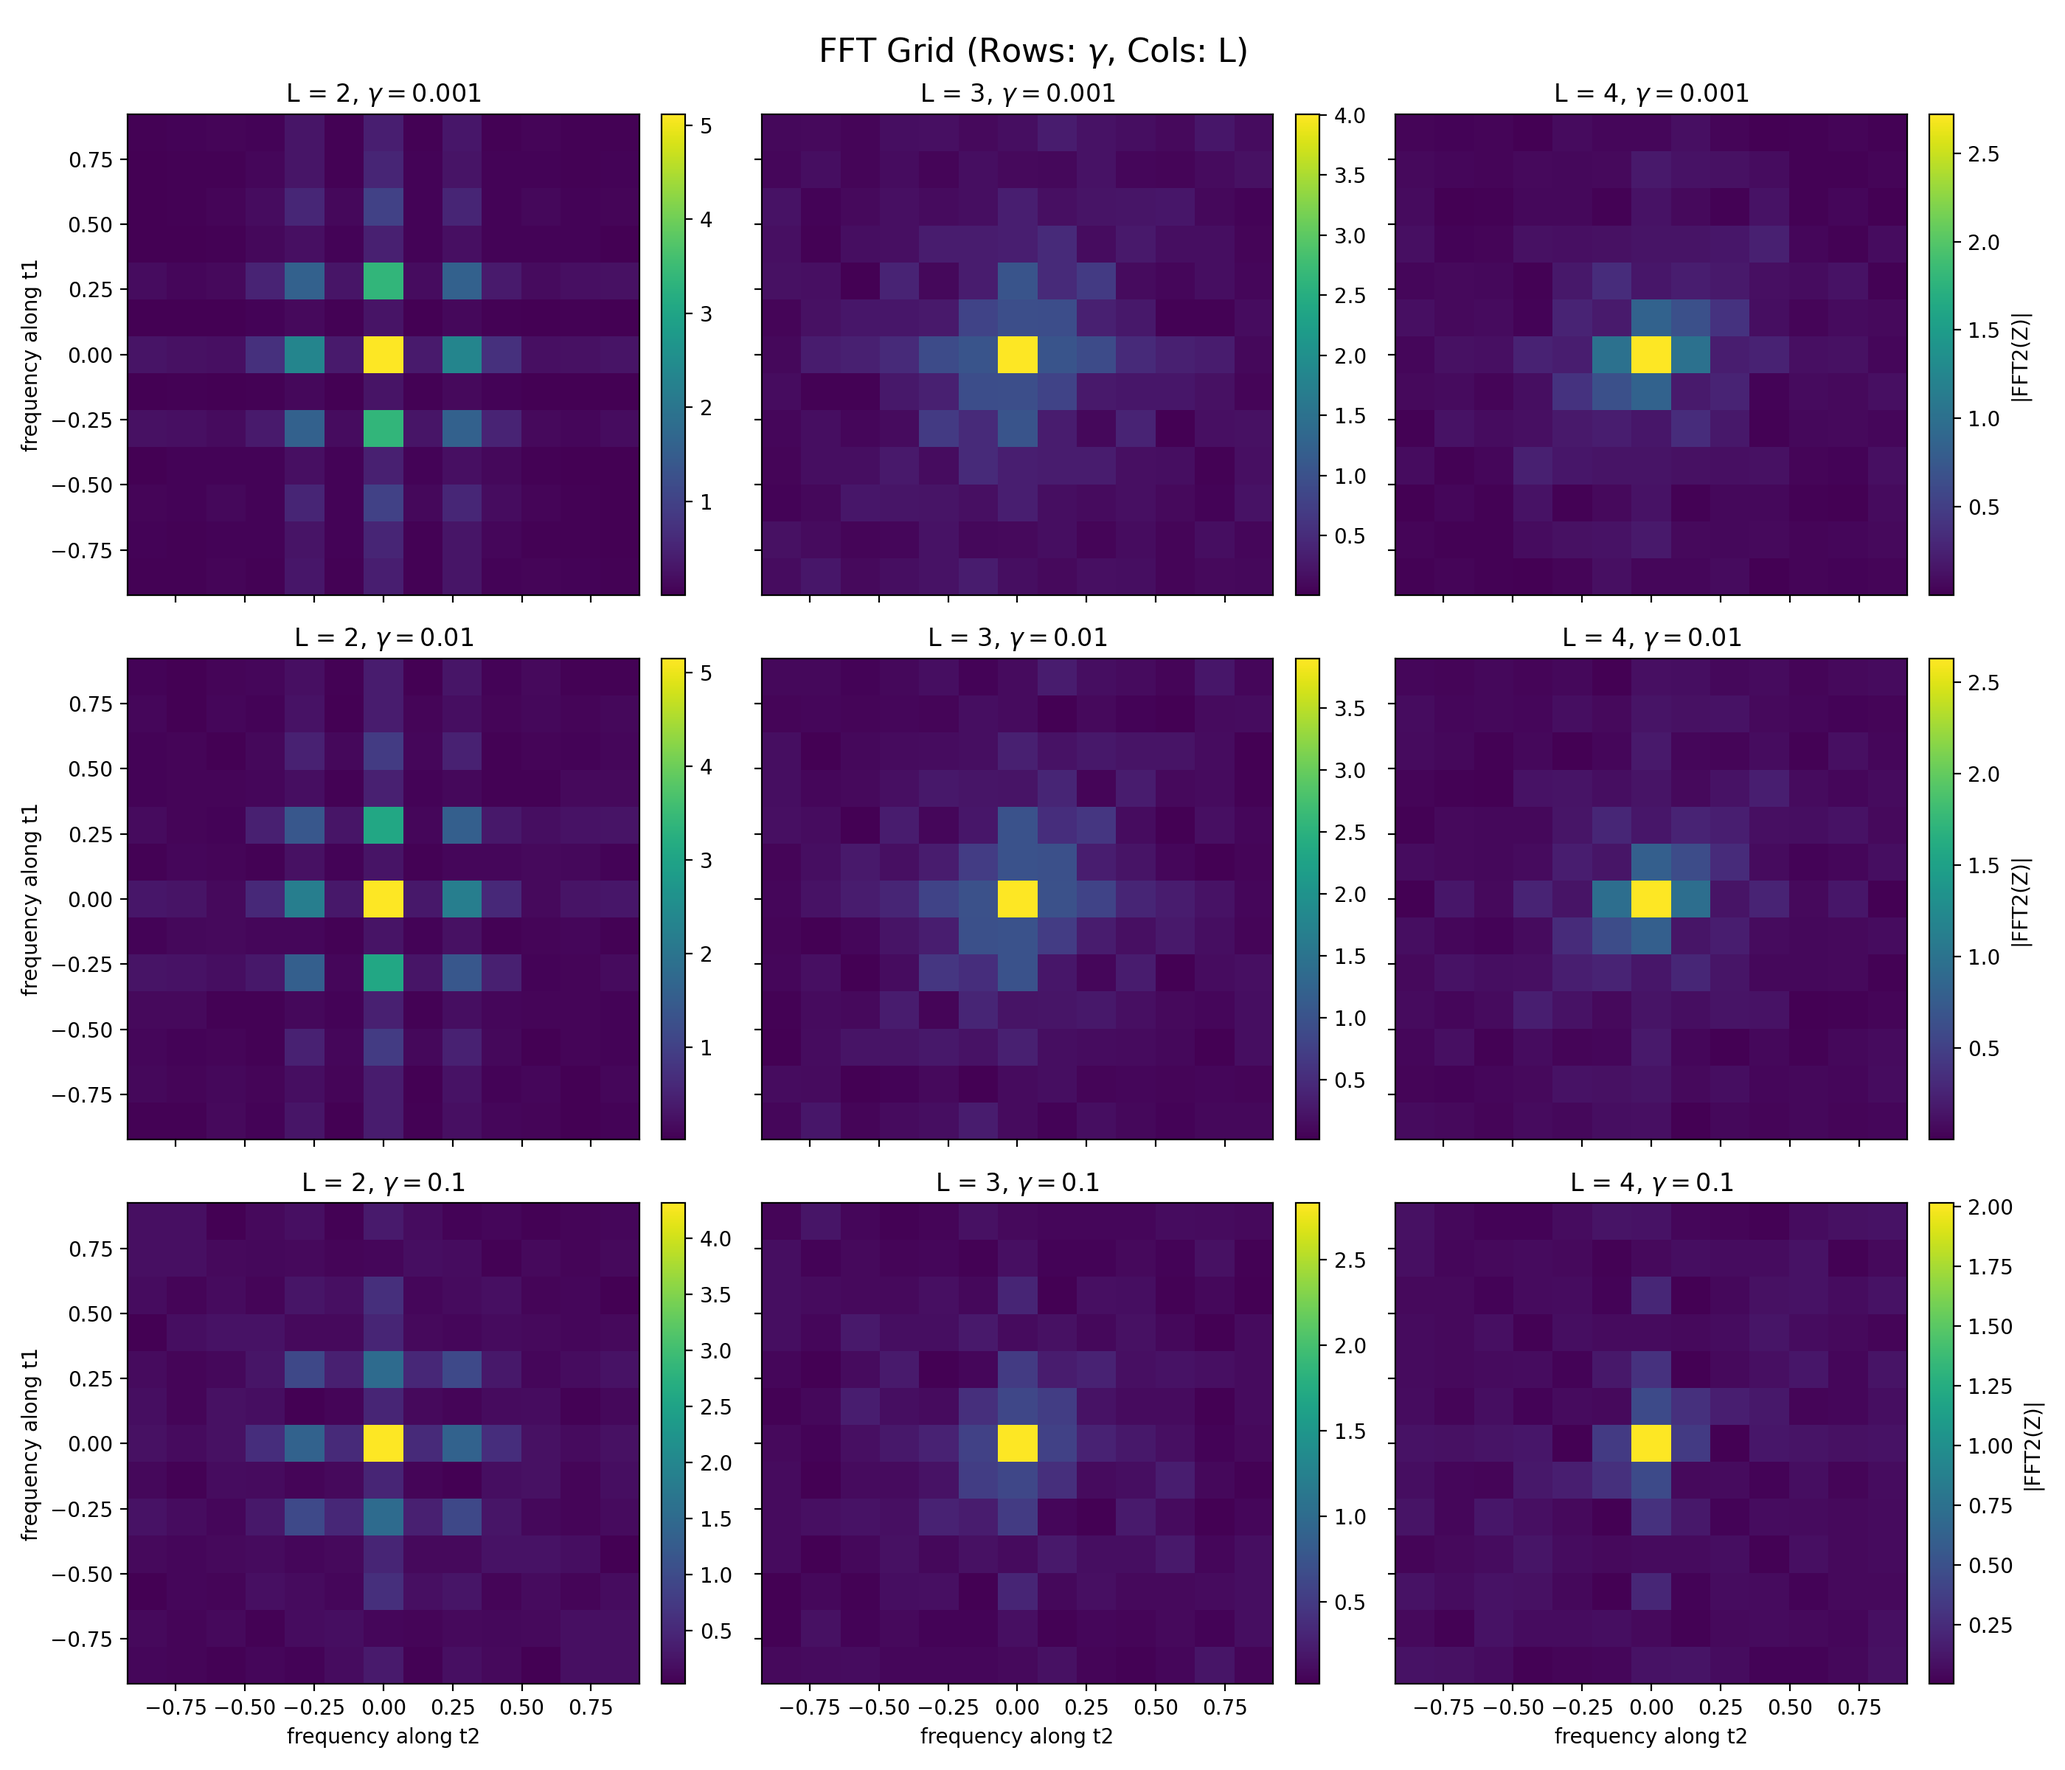
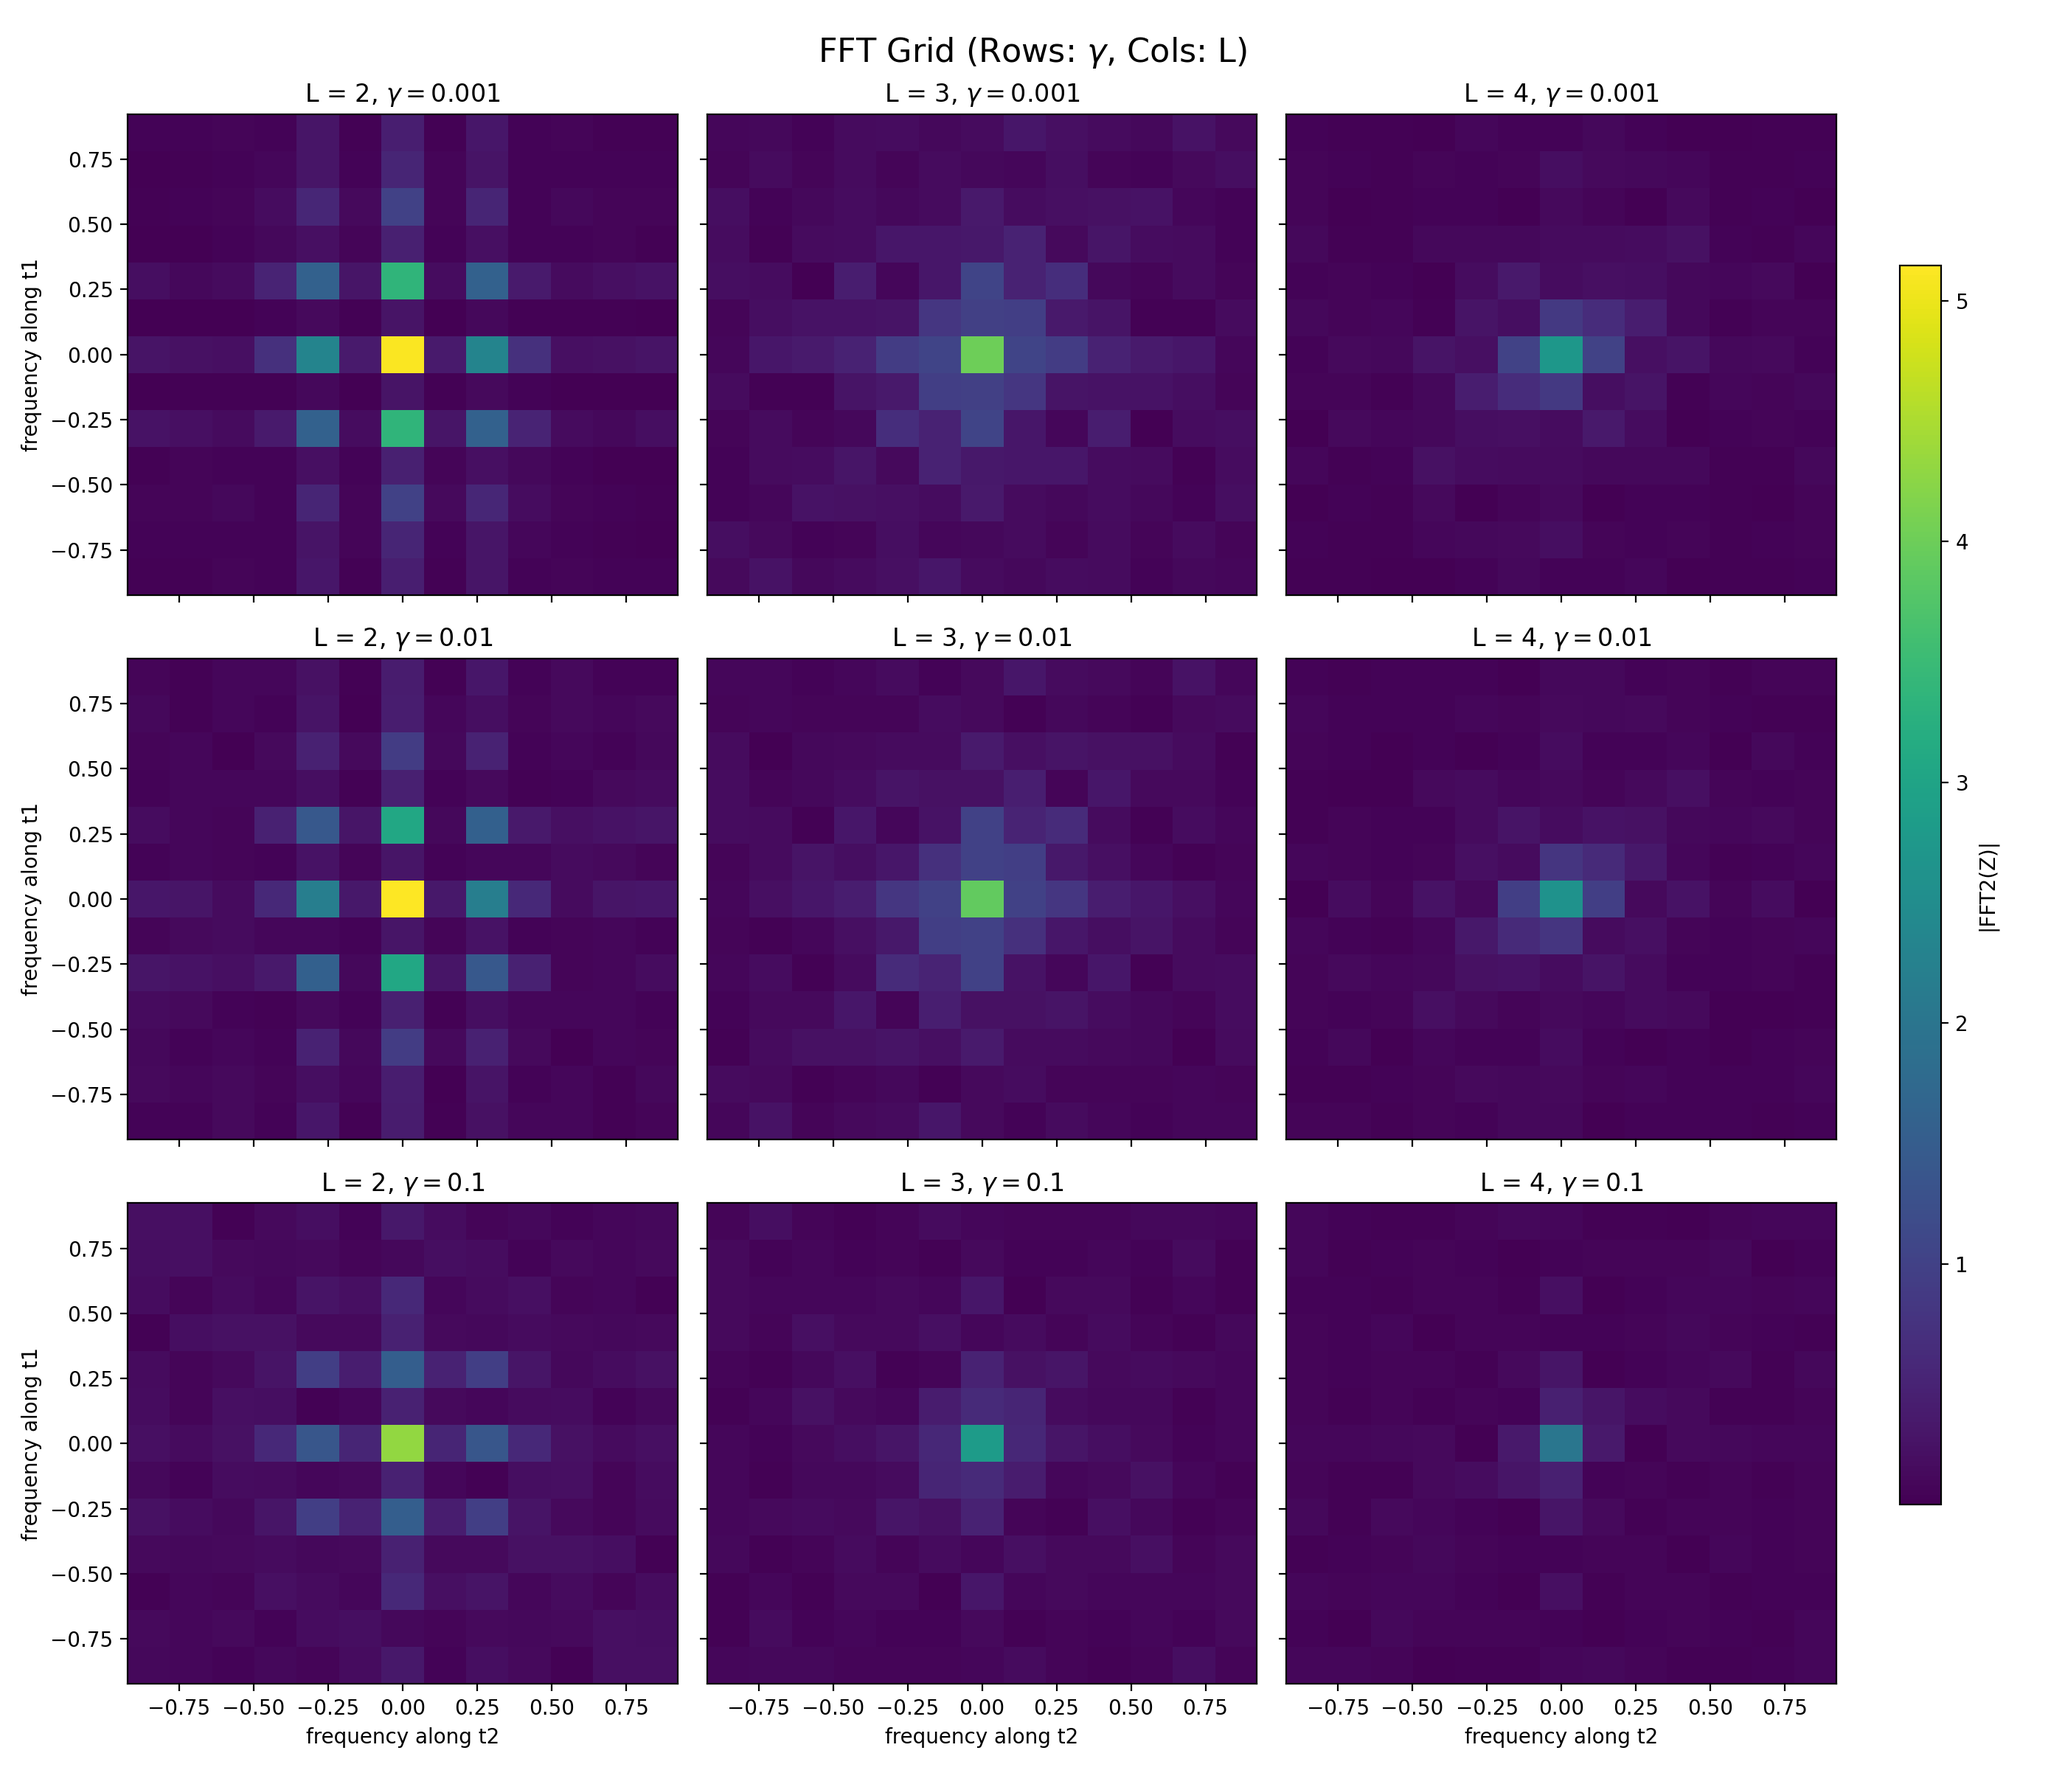
data upload

diff --git a/experiments/heatmap_multi.py b/experiments/heatmap_multi.py
@@ -126,41 +126,66 @@ def main() -> None:
     for plot_type in plot_types:
         fig, axes = plt.subplots(len(gammas), len(system_sizes), figsize=(14, 12), sharex=True, sharey=True)
         
-        for i, gamma in enumerate(gammas):
-            for j, L in enumerate(system_sizes):
-                ax = axes[i, j]
+        # Calculate global min and max for normalization
+        plot_data_dict = {}
+        global_min = np.inf
+        global_max = -np.inf
+        
+        for gamma in gammas:
+            for L in system_sizes:
                 t1_grid, t2_grid, chi_map = results[(gamma, L)]
                 
-                n1 = len(t1_grid)
-                n2 = len(t2_grid)
-                
                 if plot_type == "contours":
-                    X, Y = np.meshgrid(t2_grid, t1_grid)
-                    im = ax.contourf(X, Y, chi_map, levels=40)
+                    plot_data = chi_map
                     cbar_label = "Conditional Holevo Information"
-                    
                 elif plot_type == "fft" or plot_type == "fft_log":
-                    dt1 = float(t1_grid[1] - t1_grid[0])
-                    dt2 = float(t2_grid[1] - t2_grid[0])
-                    
                     F = np.fft.fftshift(np.fft.fft2(chi_map))
                     Fmag = np.abs(F)
-                    
-                    f1 = np.fft.fftshift(np.fft.fftfreq(n1, d=dt1))
-                    f2 = np.fft.fftshift(np.fft.fftfreq(n2, d=dt2))
-                    
                     if plot_type == "fft_log":
                         plot_data = np.log10(Fmag + 1e-12)
                         cbar_label = "log10(|FFT2(Z)|)"
                     else:
                         plot_data = Fmag
                         cbar_label = "|FFT2(Z)|"
+                
+                plot_data_dict[(gamma, L)] = plot_data
+                global_min = min(global_min, np.nanmin(plot_data))
+                global_max = max(global_max, np.nanmax(plot_data))
+
+        for i, gamma in enumerate(gammas):
+            for j, L in enumerate(system_sizes):
+                ax = axes[i, j]
+                t1_grid, t2_grid, chi_map = results[(gamma, L)]
+                plot_data = plot_data_dict[(gamma, L)]
+                
+                n1 = len(t1_grid)
+                n2 = len(t2_grid)
+                
+                if plot_type == "contours":
+                    im = ax.imshow(
+                        plot_data,
+                        origin="lower",
+                        aspect="auto",
+                        extent=[t2_grid[0], t2_grid[-1], t1_grid[0], t1_grid[-1]],
+                        interpolation="none",
+                        vmin=global_min,
+                        vmax=global_max
+                    )
+                elif plot_type == "fft" or plot_type == "fft_log":
+                    dt1 = float(t1_grid[1] - t1_grid[0])
+                    dt2 = float(t2_grid[1] - t2_grid[0])
+                    
+                    f1 = np.fft.fftshift(np.fft.fftfreq(n1, d=dt1))
+                    f2 = np.fft.fftshift(np.fft.fftfreq(n2, d=dt2))
                         
                     im = ax.imshow(
                         plot_data,
                         origin="lower",
                         aspect="auto",
                         extent=[f2[0], f2[-1], f1[0], f1[-1]],
+                        interpolation="none",
+                        vmin=global_min,
+                        vmax=global_max
                     )
 
                 ax.set_title(f"L = {L}, $\\gamma = {gamma}$")
@@ -170,15 +195,43 @@ def main() -> None:
                 if j == 0:
                     ax.set_ylabel("t1 (second step)" if plot_type == "contours" else "frequency along t1")
                 
-                # Add individual colorbars to ensure clear reading of scales
-                cbar = fig.colorbar(im, ax=ax, fraction=0.046, pad=0.04)
-                if j == len(system_sizes) - 1:
-                    cbar.set_label(cbar_label)
-
         plt.suptitle(f"{plot_type.replace('_', ' ').title().replace('Fft', 'FFT')} Grid (Rows: $\\gamma$, Cols: L)", fontsize=16)
-        plt.tight_layout()
+        plt.tight_layout(rect=[0, 0, 0.9, 1])
+        cbar_ax = fig.add_axes([0.92, 0.15, 0.02, 0.7])
+        fig.colorbar(im, cax=cbar_ax, label=cbar_label)
         plt.savefig(f"holevo_multi_grid_{plot_type}.png", dpi=200)
         plt.close(fig)
+
+    # 3) Plotting Max Memory vs L and vs Gamma
+    fig, axes = plt.subplots(1, 2, figsize=(14, 6))
+
+    # Plot 1: Max memory vs L (for fixed gammas)
+    for gamma in gammas:
+        max_mems = [np.nanmax(results[(gamma, L)][2]) for L in system_sizes]
+        axes[0].plot(system_sizes, max_mems, marker='o', label=f"$\\gamma = {gamma}$")
+    
+    axes[0].set_xlabel("System Size (L)")
+    axes[0].set_ylabel("Max Conditional Memory")
+    axes[0].set_title("Max Memory vs. System Size")
+    axes[0].legend()
+    axes[0].grid(True, linestyle="--", alpha=0.7)
+    axes[0].set_xticks(system_sizes)
+
+    # Plot 2: Max memory vs Gamma (for fixed Ls)
+    for L in system_sizes:
+        max_mems = [np.nanmax(results[(gamma, L)][2]) for gamma in gammas]
+        axes[1].plot(gammas, max_mems, marker='s', label=f"L = {L}")
+
+    axes[1].set_xlabel(r"Noise Strength ($\gamma$)")
+    axes[1].set_ylabel("Max Conditional Memory")
+    axes[1].set_title("Max Memory vs. Noise Strength")
+    axes[1].set_xscale("log")
+    axes[1].legend()
+    axes[1].grid(True, linestyle="--", alpha=0.7)
+
+    plt.tight_layout()
+    plt.savefig("holevo_max_memory_scaling.png", dpi=200)
+    plt.close(fig)
 
     print("All multi-plots generated successfully.")
 
